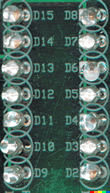
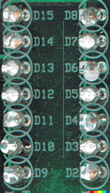
Added text to bottom of gifs

Changed region(s): [[0.5727, 0.0933, 0.6, 0.8394]]

diff --git a/src/main.c b/src/main.c
@@ -16,7 +16,7 @@
 #include <string.h>
 #include <fcntl.h>
 #include <string.h>
-
+#include <sys/time.h>
 #include "gif_lib.h"
 
 void PrintGifError(int ErrorCode); // defined in qprintf.c
@@ -28,11 +28,12 @@ extern struct ArduinoSequence_S *ss;
 struct namedHexColor {
 	const char * const name;
 	const int color;
-} namedColors[] = { {"red",0xFF0000},
-	{"orange",0xFF9933},
-	{"yellow",0xFFFF00},
-	{"green",0x00FF66},
-	{"blue",0x0066CC},
+} namedColors[] = { 
+    {"red",3},
+	{"orange",4},
+	{"yellow",1},
+	{"green",5},
+	{"blue",6},
 	{0,0} };
 
 const int ledNumToX[16] = {0,0,
@@ -45,8 +46,10 @@ const char * const ledNumToColor[16] =
 {0,0,
 	"red","green","red","green","red","green","red",
 	"orange","orange","orange","blue","blue","yellow","yellow"};
+	
 
-
+char *p;
+const char * const text;
 void GifAppendExtensionBlocks(int *ExtensionBlockCount,
 							  ExtensionBlock **ExtensionBlocks,
 							  int AdditionalExtensionBlockCount,
@@ -92,6 +95,24 @@ DumpColorMap(ColorMapObject *Object,
 	}
 }
 
+int convertStringColorToInt(const char* color) {
+	if (color == NULL) {
+		return 0;
+	} else if (strncmp(color, "red", 3) == 0) {
+		return 3;
+	} else if (strncmp(color, "orange", 6) == 0) {
+		return 4;
+	} else if (strncmp(color, "blue", 4) == 0) {
+		return 6;
+	} else if (strncmp(color, "yellow", 6) == 0) {
+		return 1;
+	} else if (strncmp(color, "green", 5) == 0) {
+		return 5;
+	} else {
+		return 0;
+	}
+}
+
 int getColor(ColorMapObject *Object, int hexColor)
 {
 	int r = ((hexColor & 0xFF0000) >> 16);
@@ -127,6 +148,7 @@ int getNamedColor(ColorMapObject *Object,
 	for (i=0; namedColors[i].name != 0; i++) {
 		if (strcmp(color,namedColors[i].name)==0) {
 			retValue = getColor(Object,namedColors[i].color);
+			printf("retValue is %d", retValue);
 			break;
 		}
 	}
@@ -160,9 +182,8 @@ void turnOnLED(int ledNum, SavedImage *image, ColorMapObject *colorMap) {
 					 left + ledNumToX[ledNum],
 					 top + ledNumToY[ledNum],
 					 15, 15,
-					 getNamedColor(colorMap,
-								   ledNumToColor[ledNum],
-								   1));
+					 convertStringColorToInt(ledNumToColor[ledNum])
+					 );
 }
 
 void turnOnDimLED(int ledNum, SavedImage *image, ColorMapObject *colorMap) {
@@ -177,9 +198,8 @@ void turnOnDimLED(int ledNum, SavedImage *image, ColorMapObject *colorMap) {
 					 left + ledNumToX[ledNum] + 5,
 					 top + ledNumToY[ledNum] + 5,
 					 5, 5,
-					 getNamedColor(colorMap,
-								   ledNumToColor[ledNum],
-								   1));
+					convertStringColorToInt(ledNumToColor[ledNum])
+					);
 }
 
 
@@ -294,8 +314,7 @@ int makeGif(const char * const baseFile,
 		PrintGifError(ErrorCode);
 		exit(EXIT_FAILURE);
     }
-	
-    
+
     /*
      * Your operations on in-core structures go here.
      */
@@ -348,7 +367,33 @@ int makeGif(const char * const baseFile,
 				}
 			}
 		} // for pins
+		char imageChar[10];
+		time_t current_time;
+		char* c_time_string;
+		char* user;
+    /* Obtain current time as seconds elapsed since the Epoch. */
+		current_time = time(NULL);
+    /* Convert to local time format. */
+		c_time_string = ctime(&current_time);
 		
+		user = getenv("USER");
+		if (user == NULL) {
+			user = getenv("USERNAME");
+		}
+		if (user == NULL) {
+			user = "No user";
+		}
+		
+		char* currentDay = c_time_string;
+		currentDay[strlen(currentDay) - 15] = '\0';
+		char* hoursMinutesSecondsYear = c_time_string + 11;
+		hoursMinutesSecondsYear[strlen(hoursMinutesSecondsYear) - 1] = '\0';
+		sprintf(imageChar, "%d", imageIndex);
+		GifDrawText8x8(&newImages[imageIndex], 000, 200, "Frame: ", 100);
+		GifDrawText8x8(&newImages[imageIndex], 175, 200, imageChar, 100);
+		GifDrawText8x8(&newImages[imageIndex], 0, 210, user, 100);
+		GifDrawText8x8(&newImages[imageIndex], 0, 220, currentDay, 100);
+		GifDrawText8x8(&newImages[imageIndex], 0, 230, hoursMinutesSecondsYear, 100);
 		imageIndex++;
     } // for state frames
 	

diff --git a/gui/GUI.py b/gui/GUI.py
@@ -3,6 +3,7 @@ from tkFileDialog import askopenfilename,asksaveasfilename
 from subprocess import call
 import ntpath
 import os
+from os.path import expanduser
 
 dir = "~"
 inoFile = ""
@@ -34,11 +35,12 @@ def gifIt():
     oldFile=open(file)
     contents = oldFile.read()
     oldFile.close()
-    newFile=open("temp.c","w")
+    home = expanduser("~") + "\\temp.c"
+    newFile=open(home,"w")
     newFile.write('#include "arduino.h"\n')
     newFile.write(contents)
     newFile.close()
-    call(["gcc", "-c", "-g", "-I", "../src", "-Wall", "-I", ".", "temp.c", "-o", "../src/sketch1.o"]) #gcc -c -g -I ../src -Wall -I . ../sketchesIn/sketch1.c -o ../src/sketch1.o
+    call(["gcc", "-c", "-g", "-I", "../src", "-Wall", "-I", ".", home, "-o", "../src/sketch1.o"]) #gcc -c -g -I ../src -Wall -I . ../sketchesIn/sketch1.c -o ../src/sketch1.o
     call(["gcc", "-g", "-Wall", "-c", "-o", "../src/main.o", "../src/main.c"]) #gcc -g -Wall   -c -o main.o main.c
     call(["gcc", "-g", "-Wall", "-c", "-o", "../src/arduino.o", "../src/arduino.c"]) #gcc -g -Wall   -c -o arduino.o arduino.c
     call(["gcc", "-g", "-Wall", "-c", "-o", "../src/qprintf.o", "../src/qprintf.c"]) #gcc -g -Wall   -c -o qprintf.o qprintf.c
@@ -52,6 +54,7 @@ def gifIt():
     call(["rm", "../src/*.o"]) #rm ../src/sketch1.o
     call(["../src/sketch1.exe", "../baseGifs/leds3.gif", location]) # ./src/sketch1.exe baseGifs/leds3.gif gifsOut/sketch1.gif
     call(["rm", "../src/sketch1.exe"])
+    call(["rm", home])
 
 locate = Button(master, text="Step 1: Locate .ino", command=askForFilename)
 filename = Text(master, height = 1)

diff --git a/sketchesIn/sketch1.c b/sketchesIn/sketch1.c
@@ -3,14 +3,14 @@
 #include "arduino.h"
 
 void setup() {
-	pinMode(2,OUTPUT);
-	pinMode(3, OUTPUT);
+	pinMode(3,OUTPUT);
+	pinMode(4, OUTPUT);
 }
 
 void loop() {
-	digitalWrite(2,HIGH);
+	digitalWrite(3,HIGH);
 	delay(1000);
-	digitalWrite(2,LOW);
-	digitalWrite(3, HIGH);
+	digitalWrite(3,LOW);
+	digitalWrite(4, HIGH);
 	delay(500);
 }
